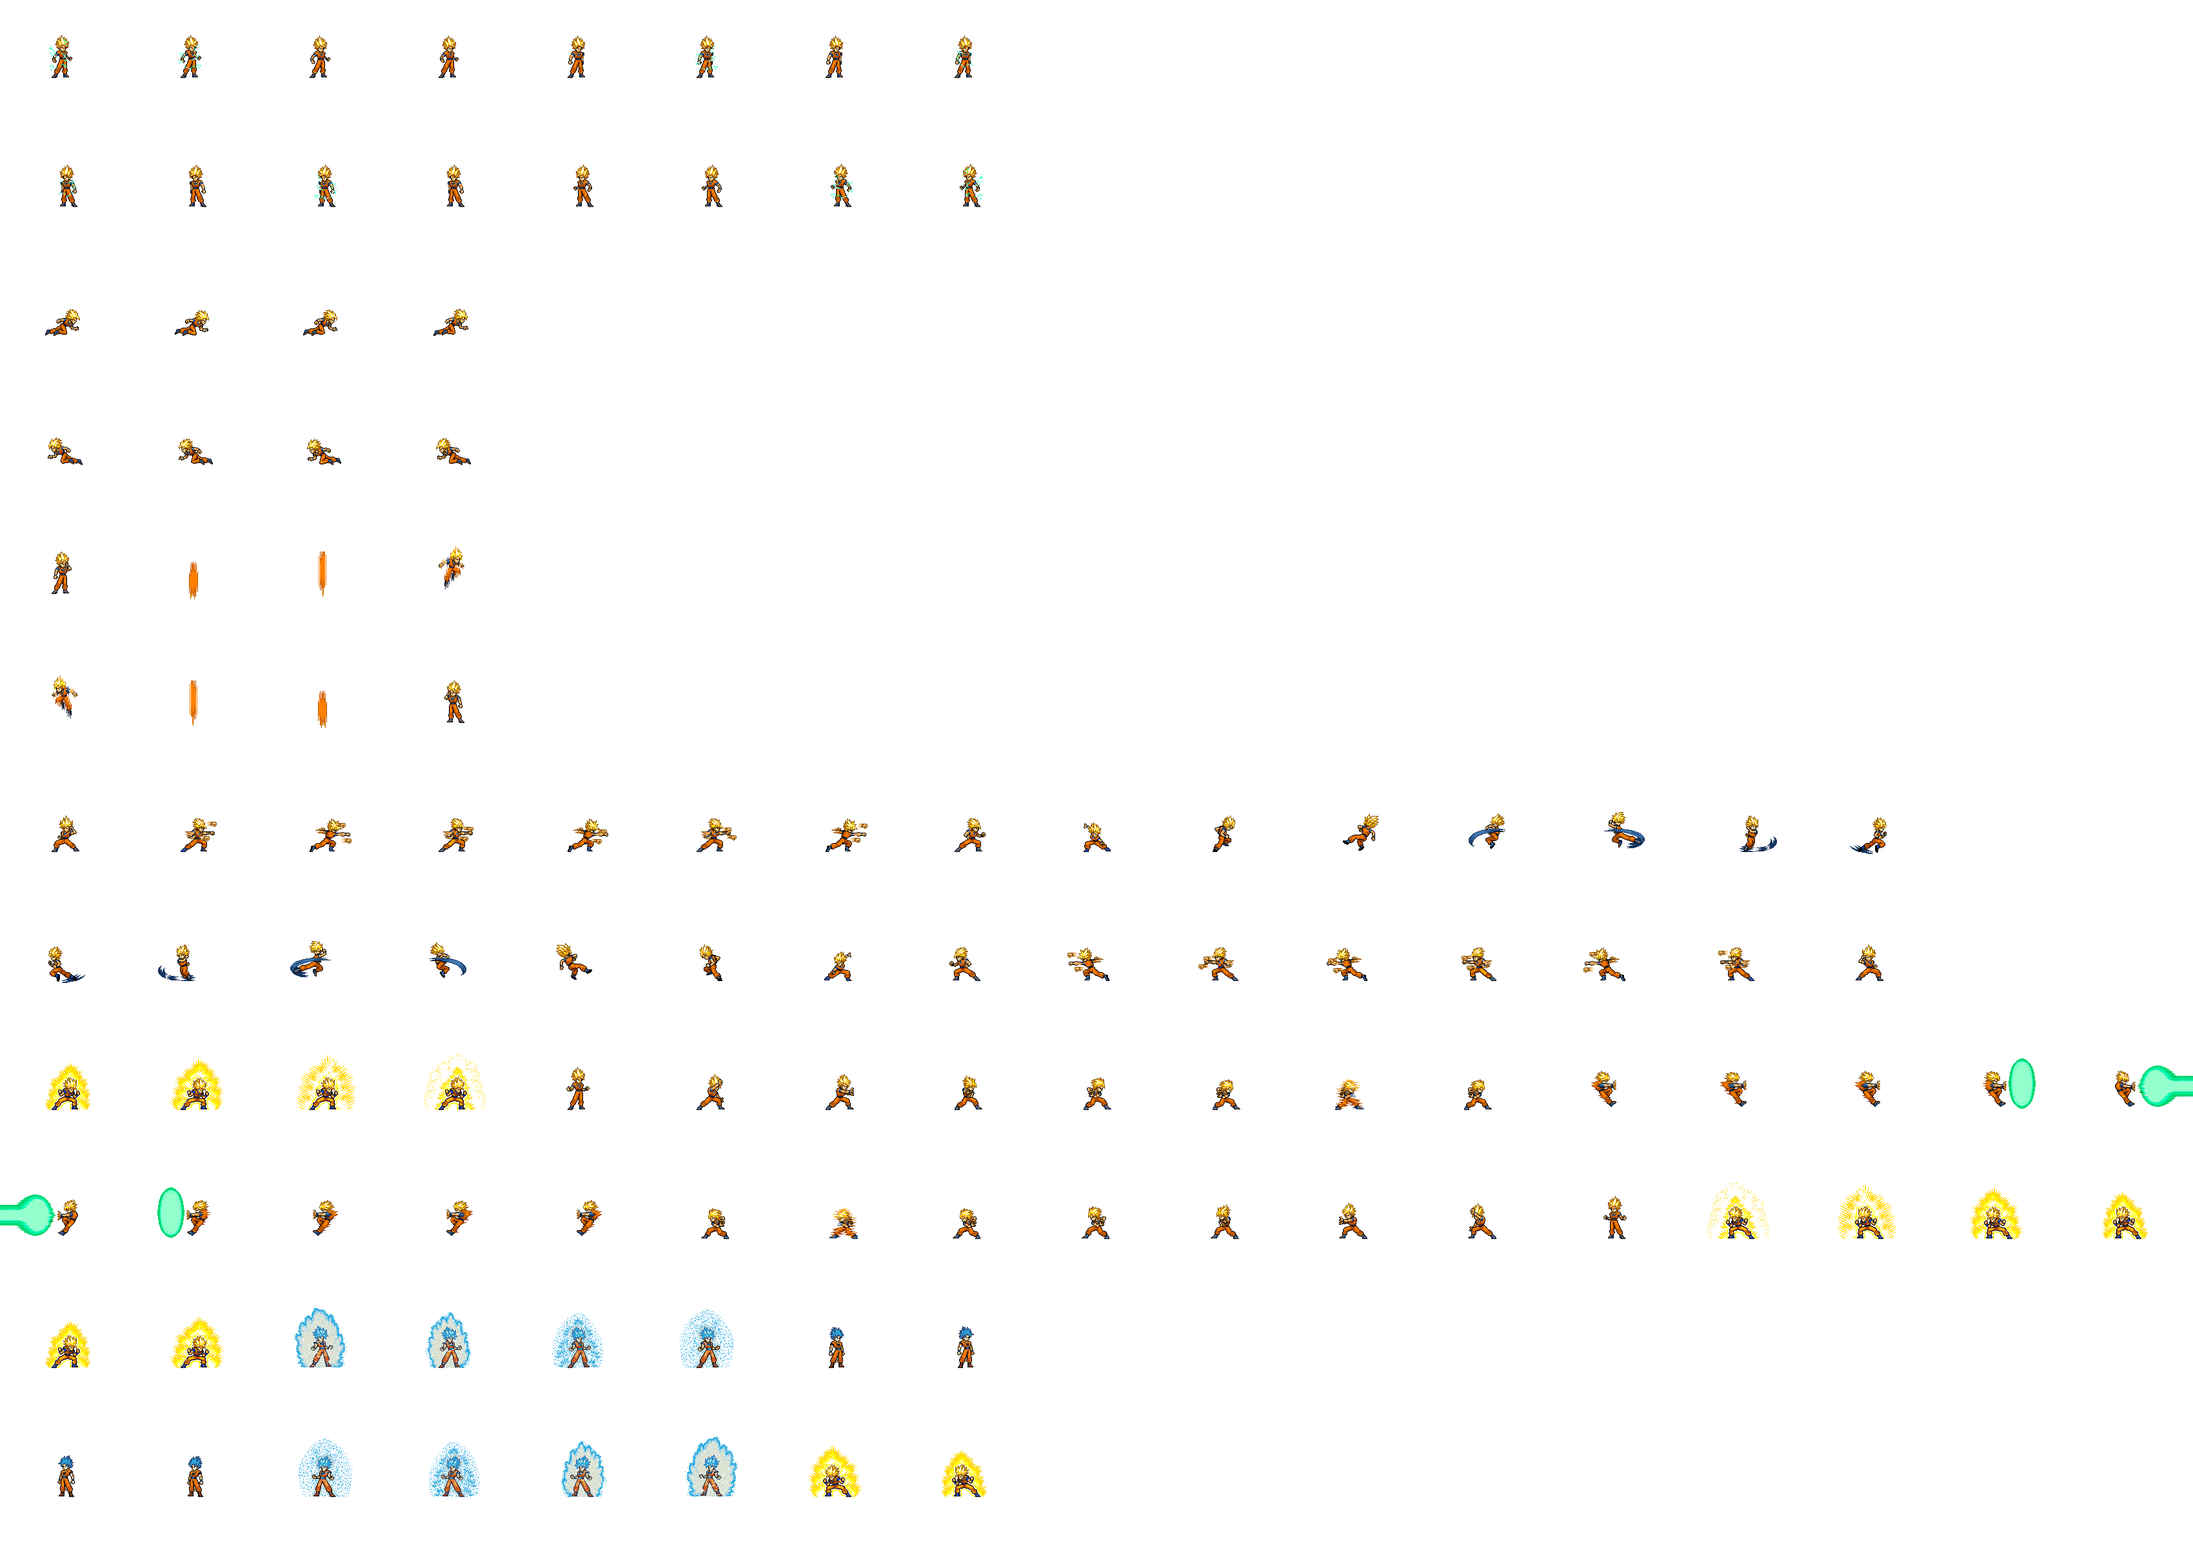
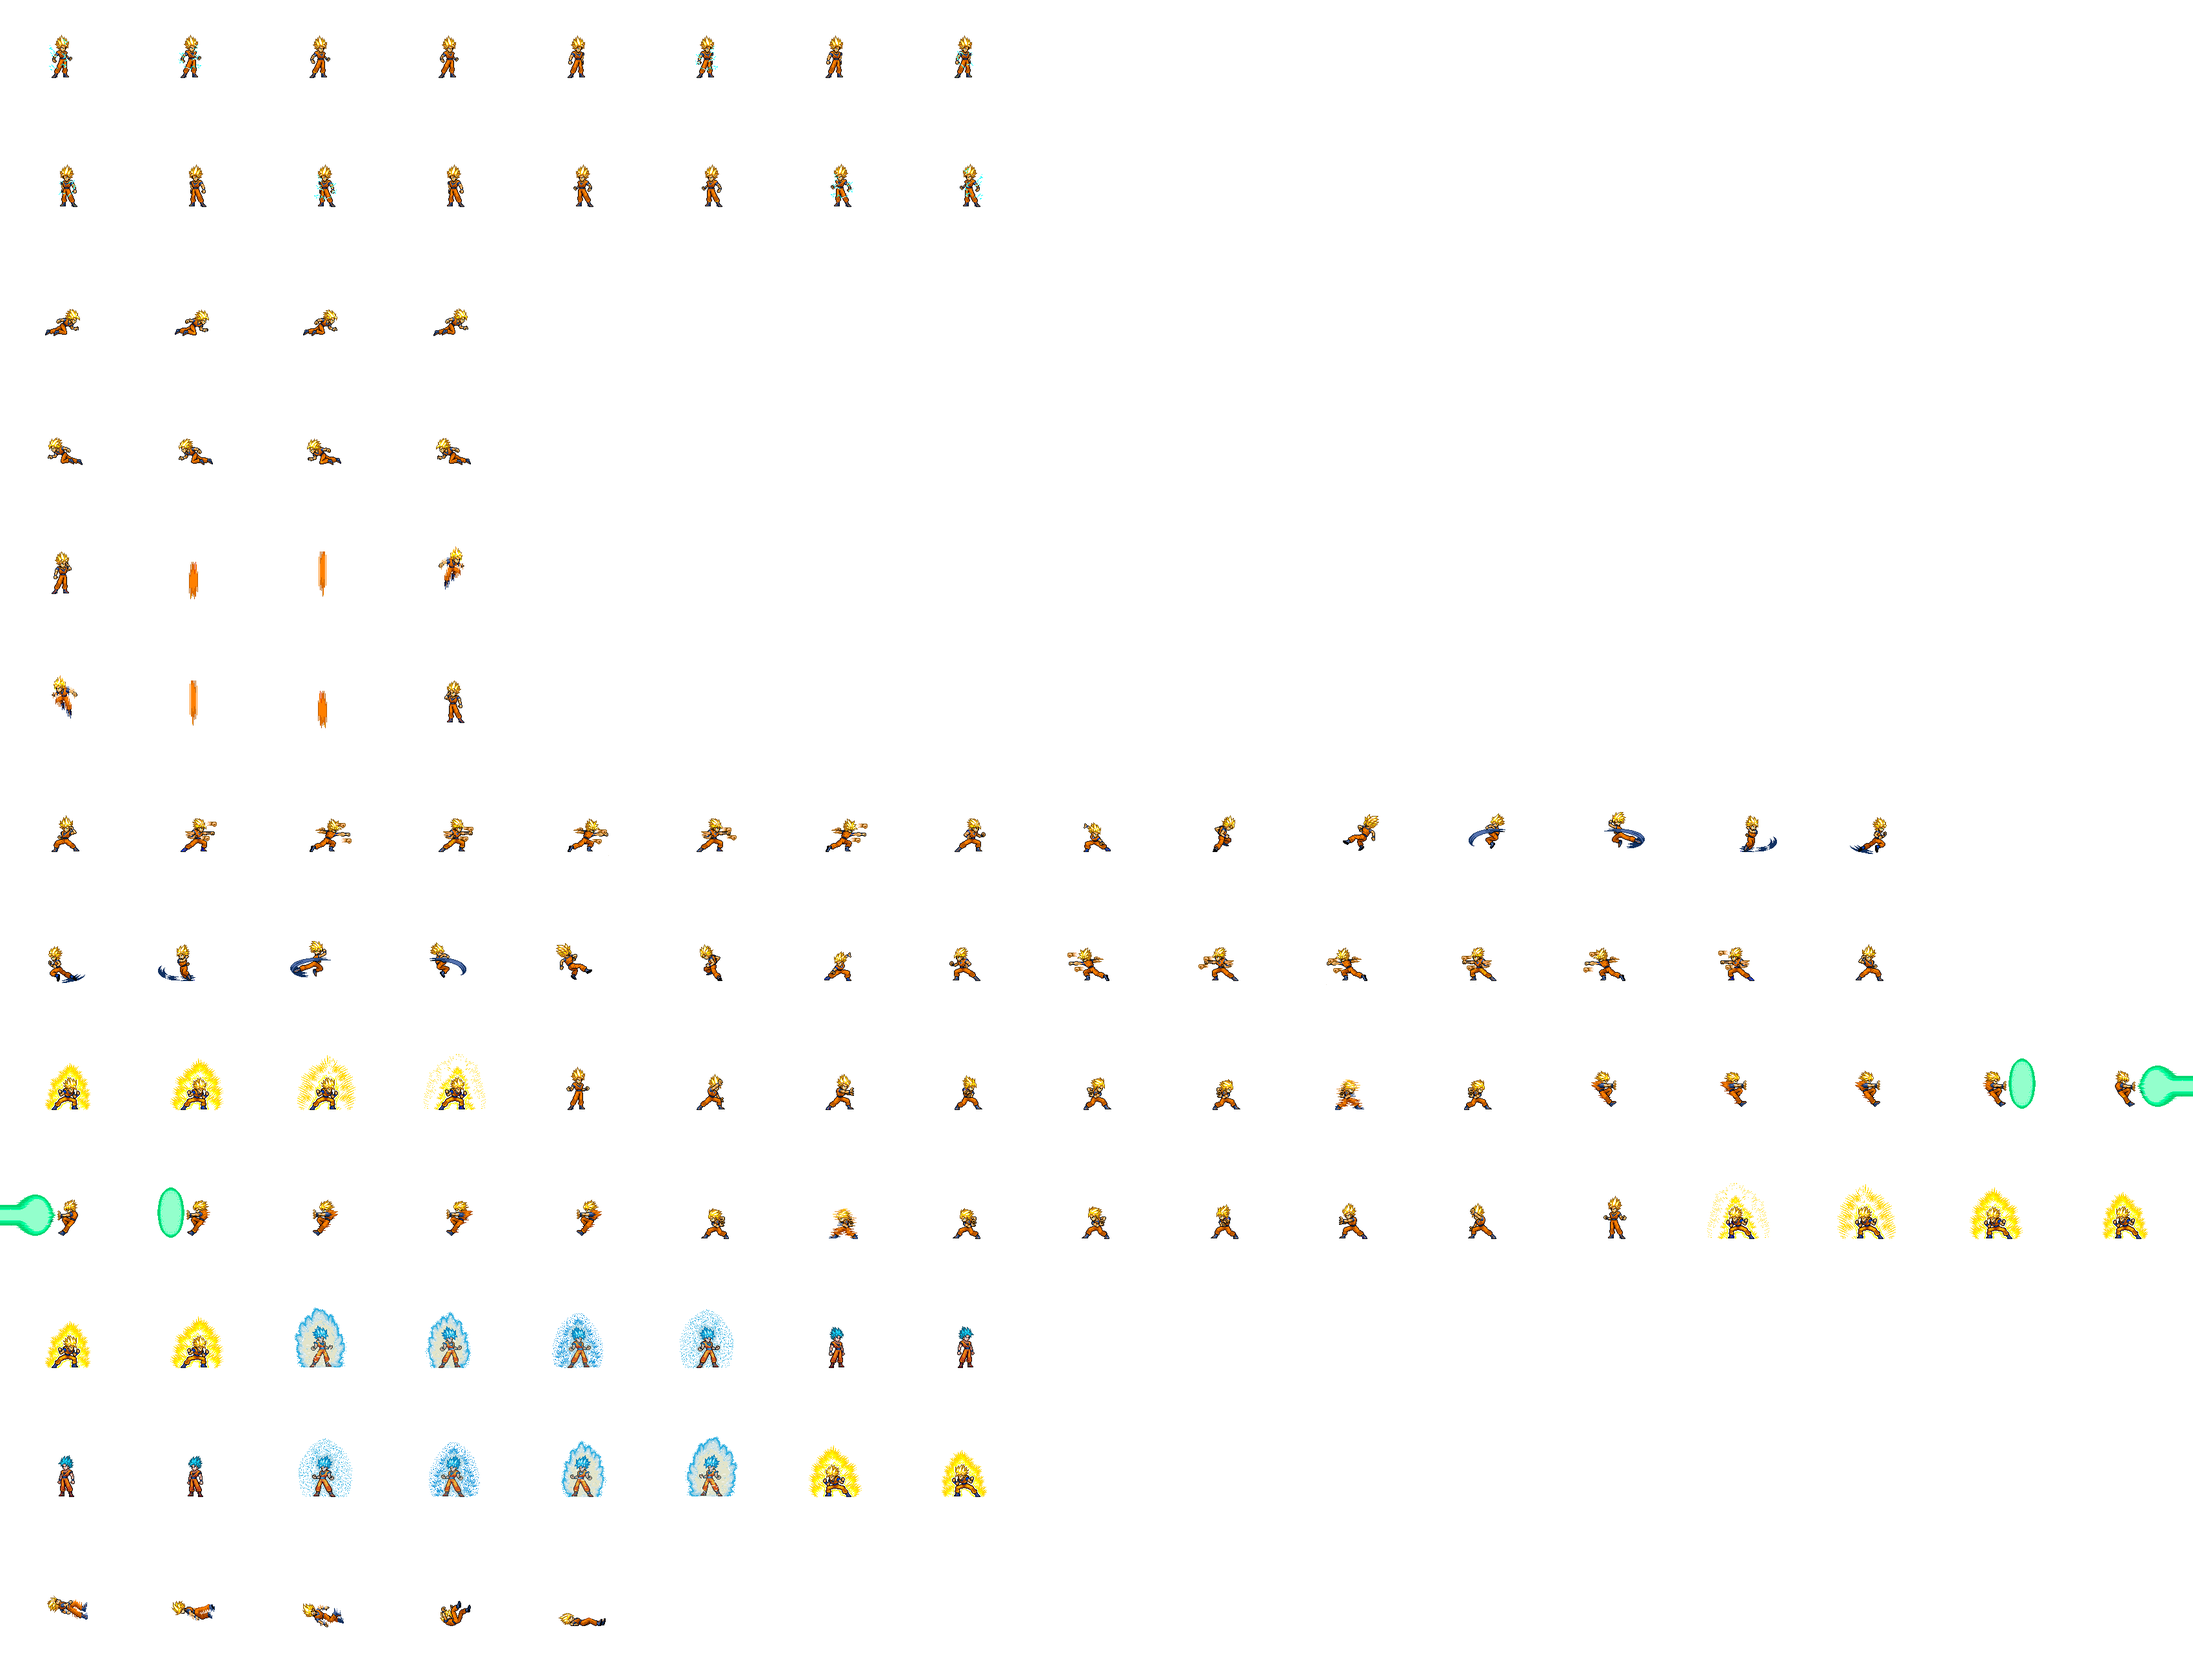
Qualité pour les héros avec morts

diff --git a/model/herostats.py b/model/herostats.py
@@ -1,6 +1,7 @@
 from model.Heros import Heros
 from model.coupspe import *
 
+
 class Adventurer(Heros):
 
     name = "Aventurier"
@@ -42,12 +43,12 @@ class Ichigo(Heros):
             # Spritesheet du Heros
             "damagingSprite": [2, 3, 5, 12, 13],
             "num_sprintes": {"idleRight": 2, "idleLeft": 2, "runRight": 8,
-                            "runLeft": 8, "attackRight": 16, "attackLeft": 16, "specialMoveRight": 19, "specialMoveLeft": 19, "die": 2, "transform": 20},
-            "spritesheet": "view/src/personnage/heros/Ichigo/Ichigo0 ("+ str(self.quality) +").png",
+                             "runLeft": 8, "attackRight": 16, "attackLeft": 16, "specialMoveRight": 19, "specialMoveLeft": 19, "die": 2, "transform": 20},
+            "spritesheet": "view/src/personnage/heros/Ichigo/Ichigo0 (" + str(self.quality) + ").png",
             "spriteSize": 200/self.quality,
             "zoom": self.quality,
             "y_Anim": {"idleRight": 0/self.quality, "idleLeft": 200/self.quality, "runRight": 400/self.quality, "runLeft": 600/self.quality,
-                    "attackRight": 800/self.quality, "attackLeft": 1000/self.quality, "die": 0/self.quality, "specialMoveRight": 1200/self.quality, "specialMoveLeft": 1400/self.quality, "transform": 1800/self.quality}
+                       "attackRight": 800/self.quality, "attackLeft": 1000/self.quality, "die": 0/self.quality, "specialMoveRight": 1200/self.quality, "specialMoveLeft": 1400/self.quality, "transform": 1800/self.quality, "death" : 2400/self.quality}
         }
 
         self.lv1 = {
@@ -60,12 +61,12 @@ class Ichigo(Heros):
             # Spritesheet du Heros
             "damagingSprite": [2, 3, 7, 8, 9, 13, 14, 17, 18],
             "num_sprintes": {"idleRight": 2, "idleLeft": 2, "runRight": 8, "instantMove": 2,
-                            "runLeft": 8, "attackRight": 23, "attackLeft": 23, "die": 2, "transform": 7, "specialMoveRight": 13, "specialMoveLeft": 13},
-            "spritesheet": "view/src/personnage/heros/Ichigo/Ichigo1 ("+ str(self.quality) +").png",
+                             "runLeft": 8, "attackRight": 23, "attackLeft": 23, "die": 2, "transform": 7, "specialMoveRight": 13, "specialMoveLeft": 13},
+            "spritesheet": "view/src/personnage/heros/Ichigo/Ichigo1 (" + str(self.quality) + ").png",
             "spriteSize": 200/self.quality,
             "zoom": self.quality,
             "y_Anim": {"idleRight": 0/self.quality, "idleLeft": 200/self.quality, "runRight": 400/self.quality, "runLeft": 600/self.quality, "instantMove": 800/self.quality,
-                    "attackRight": 1200/self.quality, "attackLeft": 1400/self.quality, "die": 0/self.quality, "specialMoveRight": 1600/self.quality, "specialMoveLeft": 1800/self.quality, "transform": 2200/self.quality}
+                       "attackRight": 1200/self.quality, "attackLeft": 1400/self.quality, "die": 0/self.quality, "specialMoveRight": 1600/self.quality, "specialMoveLeft": 1800/self.quality, "transform": 2200/self.quality, "death" : 2400/self.quality}
         }
 
         self.lv2 = {
@@ -78,12 +79,12 @@ class Ichigo(Heros):
             # Spritesheet du Heros
             "damagingSprite": [1, 2, 6, 7, 11, 12, 13, 14],
             "num_sprintes": {"idleRight": 2, "idleLeft": 2, "runRight": 8, "instantMove": 2,
-                            "runLeft": 8, "attackRight": 18, "attackLeft": 18, "die": 2, "transform": 6, "specialMoveRight": 14, "specialMoveLeft": 14},
-            "spritesheet": "view/src/personnage/heros/Ichigo/Ichigo2 ("+ str(self.quality) +").png",
+                             "runLeft": 8, "attackRight": 18, "attackLeft": 18, "die": 2, "transform": 6, "specialMoveRight": 14, "specialMoveLeft": 14},
+            "spritesheet": "view/src/personnage/heros/Ichigo/Ichigo2 (" + str(self.quality) + ").png",
             "spriteSize": 200/self.quality,
             "zoom": self.quality,
             "y_Anim": {"idleRight": 0/self.quality, "idleLeft": 200/self.quality, "runRight": 800/self.quality, "runLeft": 1000/self.quality, "instantMove": 400/self.quality,
-                    "attackRight": 1200/self.quality, "attackLeft": 1400/self.quality, "specialMoveRight": 1600/self.quality, "specialMoveLeft": 1800/self.quality, "die": 0/self.quality, "transform": 2200/self.quality}
+                       "attackRight": 1200/self.quality, "attackLeft": 1400/self.quality, "specialMoveRight": 1600/self.quality, "specialMoveLeft": 1800/self.quality, "die": 0/self.quality, "transform": 2200/self.quality, "death" : 2400/self.quality}
         }
 
         self.lv3 = {
@@ -95,12 +96,12 @@ class Ichigo(Heros):
             # Spritesheet du Heros
             "damagingSprite": [1, 2, 6, 7, 11, 12, 13, 14],
             "num_sprintes": {"idleRight": 4, "idleLeft": 4, "runRight": 2, "instantMove": 2,
-                            "runLeft": 2, "attackRight": 6, "attackLeft": 6, "die": 2, "specialMoveRight": 14, "specialMoveLeft": 14},
-            "spritesheet": "view/src/personnage/heros/Ichigo/Ichigo3 ("+ str(self.quality) +").png",
+                             "runLeft": 2, "attackRight": 6, "attackLeft": 6, "die": 2, "specialMoveRight": 14, "specialMoveLeft": 14},
+            "spritesheet": "view/src/personnage/heros/Ichigo/Ichigo3 (" + str(self.quality) + ").png",
             "spriteSize": 200/self.quality,
             "zoom": self.quality,
             "y_Anim": {"idleRight": 0/self.quality, "idleLeft": 200/self.quality, "runRight": 800/self.quality, "runLeft": 1000/self.quality, "instantMove": 400/self.quality,
-                    "attackRight": 1200/self.quality, "attackLeft": 1400/self.quality, "specialMoveRight": 1600/self.quality, "specialMoveLeft": 1800/self.quality, "die": 0/self.quality}
+                       "attackRight": 1200/self.quality, "attackLeft": 1400/self.quality, "specialMoveRight": 1600/self.quality, "specialMoveLeft": 1800/self.quality, "die": 0/self.quality, "death" : 2400/self.quality}
         }
 
 
@@ -116,12 +117,13 @@ class Goku(Heros):
             "coupSpe": Kamehameha,
             "attackSpeed": 3,
             "num_sprintes": {"idleRight": 8, "idleLeft": 8, "runRight": 4,
-                            "runLeft": 4, "attackRight": 15, "attackLeft": 15, "die": 8, "transform": 9, "specialMoveRight": 16, "specialMoveLeft": 16},
+                             "runLeft": 4, "attackRight": 15, "attackLeft": 15, "die": 8, "transform": 9, "specialMoveRight": 16, "specialMoveLeft": 16},
             "spritesheet": "view/src/personnage/heros/Goku/Goku0 (" + str(self.quality) + ").png",
             "spriteSize": 200/self.quality,
             "zoom": self.quality,
             "y_Anim": {"idleRight": 0/self.quality, "idleLeft": 200/self.quality, "runRight": 400/self.quality, "runLeft": 600/self.quality,
-                    "attackRight": 1200/self.quality, "attackLeft": 1400/self.quality, "die": 200/self.quality, "transform": 2200/self.quality, "specialMoveRight": 1600/self.quality, "specialMoveLeft": 1800/self.quality}
+                       "attackRight": 1200/self.quality, "attackLeft": 1400/self.quality, "die": 200/self.quality, "transform": 2200/self.quality,
+                       "specialMoveRight": 1600/self.quality, "specialMoveLeft": 1800/self.quality, "death": 2400/self.quality}
         }
 
         self.lv1 = {
@@ -132,12 +134,13 @@ class Goku(Heros):
             "coupSpe": Kamehameha2,
             "attackSpeed": 3,
             "num_sprintes": {"idleRight": 4, "idleLeft": 4, "runRight": 4,
-                            "runLeft": 4, "attackRight": 15, "attackLeft": 15, "die": 4, "transform": 8, "specialMoveRight": 17, "specialMoveLeft": 17, "instantMove": 4},
+                             "runLeft": 4, "attackRight": 15, "attackLeft": 15, "die": 4, "transform": 8, "specialMoveRight": 17, "specialMoveLeft": 17, "instantMove": 4},
             "spritesheet": "view/src/personnage/heros/Goku/Goku1 (" + str(self.quality) + ").png",
             "spriteSize": 200/self.quality,
             "zoom": self.quality,
-            "y_Anim": {"idleRight": 0/self.quality, "idleLeft": 200/self.quality, "runRight": 400/self.quality, "runLeft": 600/self.quality, "instantMove": 800/self.quality,
-                    "attackRight": 1200/self.quality, "attackLeft": 1400/self.quality, "die": 200/self.quality, "transform": 2200/self.quality, "specialMoveRight": 1600/self.quality, "specialMoveLeft": 1800/self.quality}
+            "y_Anim": {"idleRight": 0/self.quality, "idleLeft": 200/self.quality, "runRight": 400/self.quality, "runLeft": 600/self.quality,
+                       "instantMove": 800/self.quality, "attackRight": 1200/self.quality, "attackLeft": 1400/self.quality, "die": 200/self.quality,
+                       "transform": 2200/self.quality, "specialMoveRight": 1600/self.quality, "specialMoveLeft": 1800/self.quality, "death": 2400/self.quality}
         }
 
         self.lv2 = {
@@ -148,12 +151,12 @@ class Goku(Heros):
             "coupSpe": Kamehameha3,
             "attackSpeed": 5,
             "num_sprintes": {"idleRight": 4, "idleLeft": 4, "runRight": 4,
-                            "runLeft": 4, "attackRight": 26, "attackLeft": 26, "die": 4, "transform": 8, "specialMoveRight": 17, "specialMoveLeft": 17, "instantMove": 3},
+                             "runLeft": 4, "attackRight": 26, "attackLeft": 26, "die": 4, "transform": 8, "specialMoveRight": 17, "specialMoveLeft": 17, "instantMove": 3},
             "spritesheet": "view/src/personnage/heros/Goku/Goku2 (" + str(self.quality) + ").png",
             "spriteSize": 200/self.quality,
             "zoom": self.quality,
             "y_Anim": {"idleRight": 0/self.quality, "idleLeft": 200/self.quality, "runRight": 400/self.quality, "runLeft": 600/self.quality, "instantMove": 800/self.quality,
-                    "attackRight": 1200/self.quality, "attackLeft": 1400/self.quality, "die": 200/self.quality, "transform": 2200/self.quality, "specialMoveRight": 1600/self.quality, "specialMoveLeft": 1800/self.quality}
+                       "attackRight": 1200/self.quality, "attackLeft": 1400/self.quality, "die": 200/self.quality, "transform": 2200/self.quality, "specialMoveRight": 1600/self.quality, "specialMoveLeft": 1800/self.quality, "death": 2400/self.quality}
         }
 
         self.lv3 = {
@@ -164,10 +167,10 @@ class Goku(Heros):
             "coupSpe": Genkidamasupreme,
             "damagingSprite": [3, 7, 10, 12, 13, 14, 16, 17, 18, 19, 20, 21, 22, 23, 24],
             "num_sprintes": {"idleRight": 4, "idleLeft": 4, "runRight": 4,
-                            "runLeft": 4, "attackRight": 24, "attackLeft": 24, "die": 4, "transform": 8, "specialMoveRight": 8, "specialMoveLeft": 8, "instantMove": 2},
+                             "runLeft": 4, "attackRight": 24, "attackLeft": 24, "die": 4, "transform": 8, "specialMoveRight": 8, "specialMoveLeft": 8, "instantMove": 2},
             "spritesheet": "view/src/personnage/heros/Goku/Goku3 (" + str(self.quality) + ").png",
             "spriteSize": 200/self.quality,
             "zoom": self.quality,
             "y_Anim": {"idleRight": 0/self.quality, "idleLeft": 200/self.quality, "runRight": 400/self.quality, "runLeft": 600/self.quality, "instantMove": 0/self.quality,
-                    "attackRight": 800/self.quality, "attackLeft": 1000/self.quality, "die": 200/self.quality, "specialMoveRight": 1200/self.quality, "specialMoveLeft": 1400/self.quality}
+                       "attackRight": 800/self.quality, "attackLeft": 1000/self.quality, "die": 200/self.quality, "specialMoveRight": 1200/self.quality, "specialMoveLeft": 1400/self.quality, "death" : 2400/self.quality}
         }
